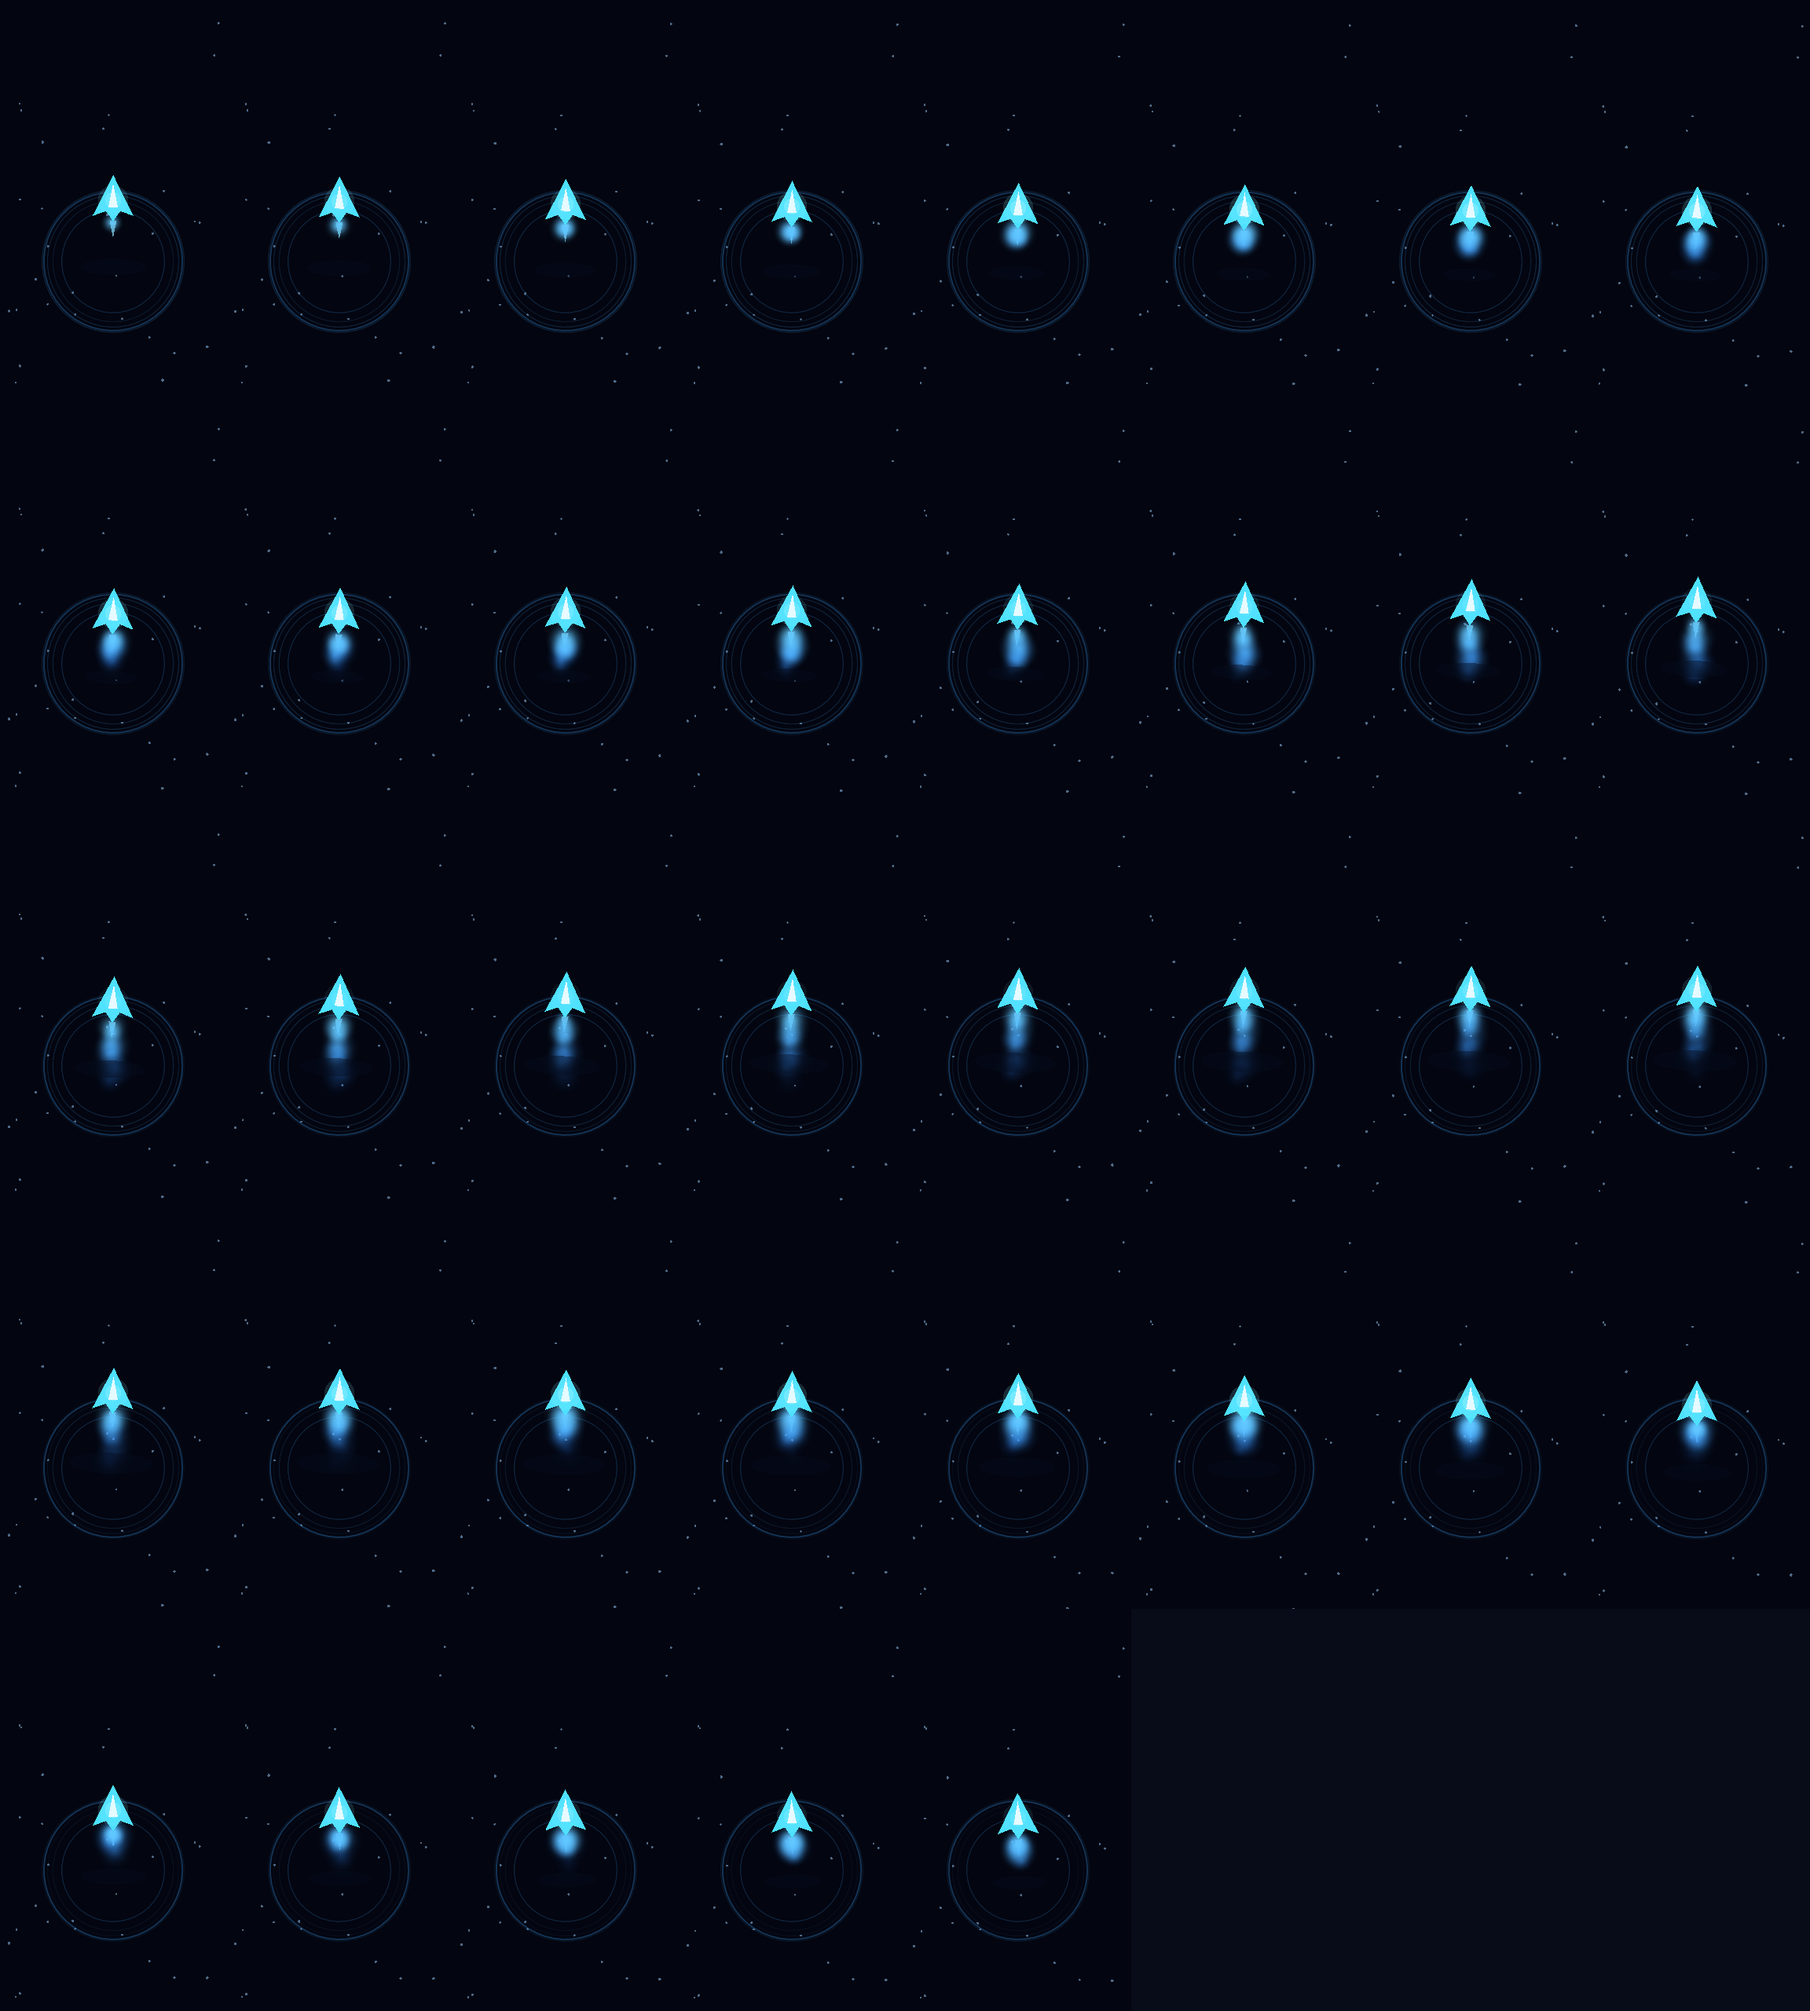
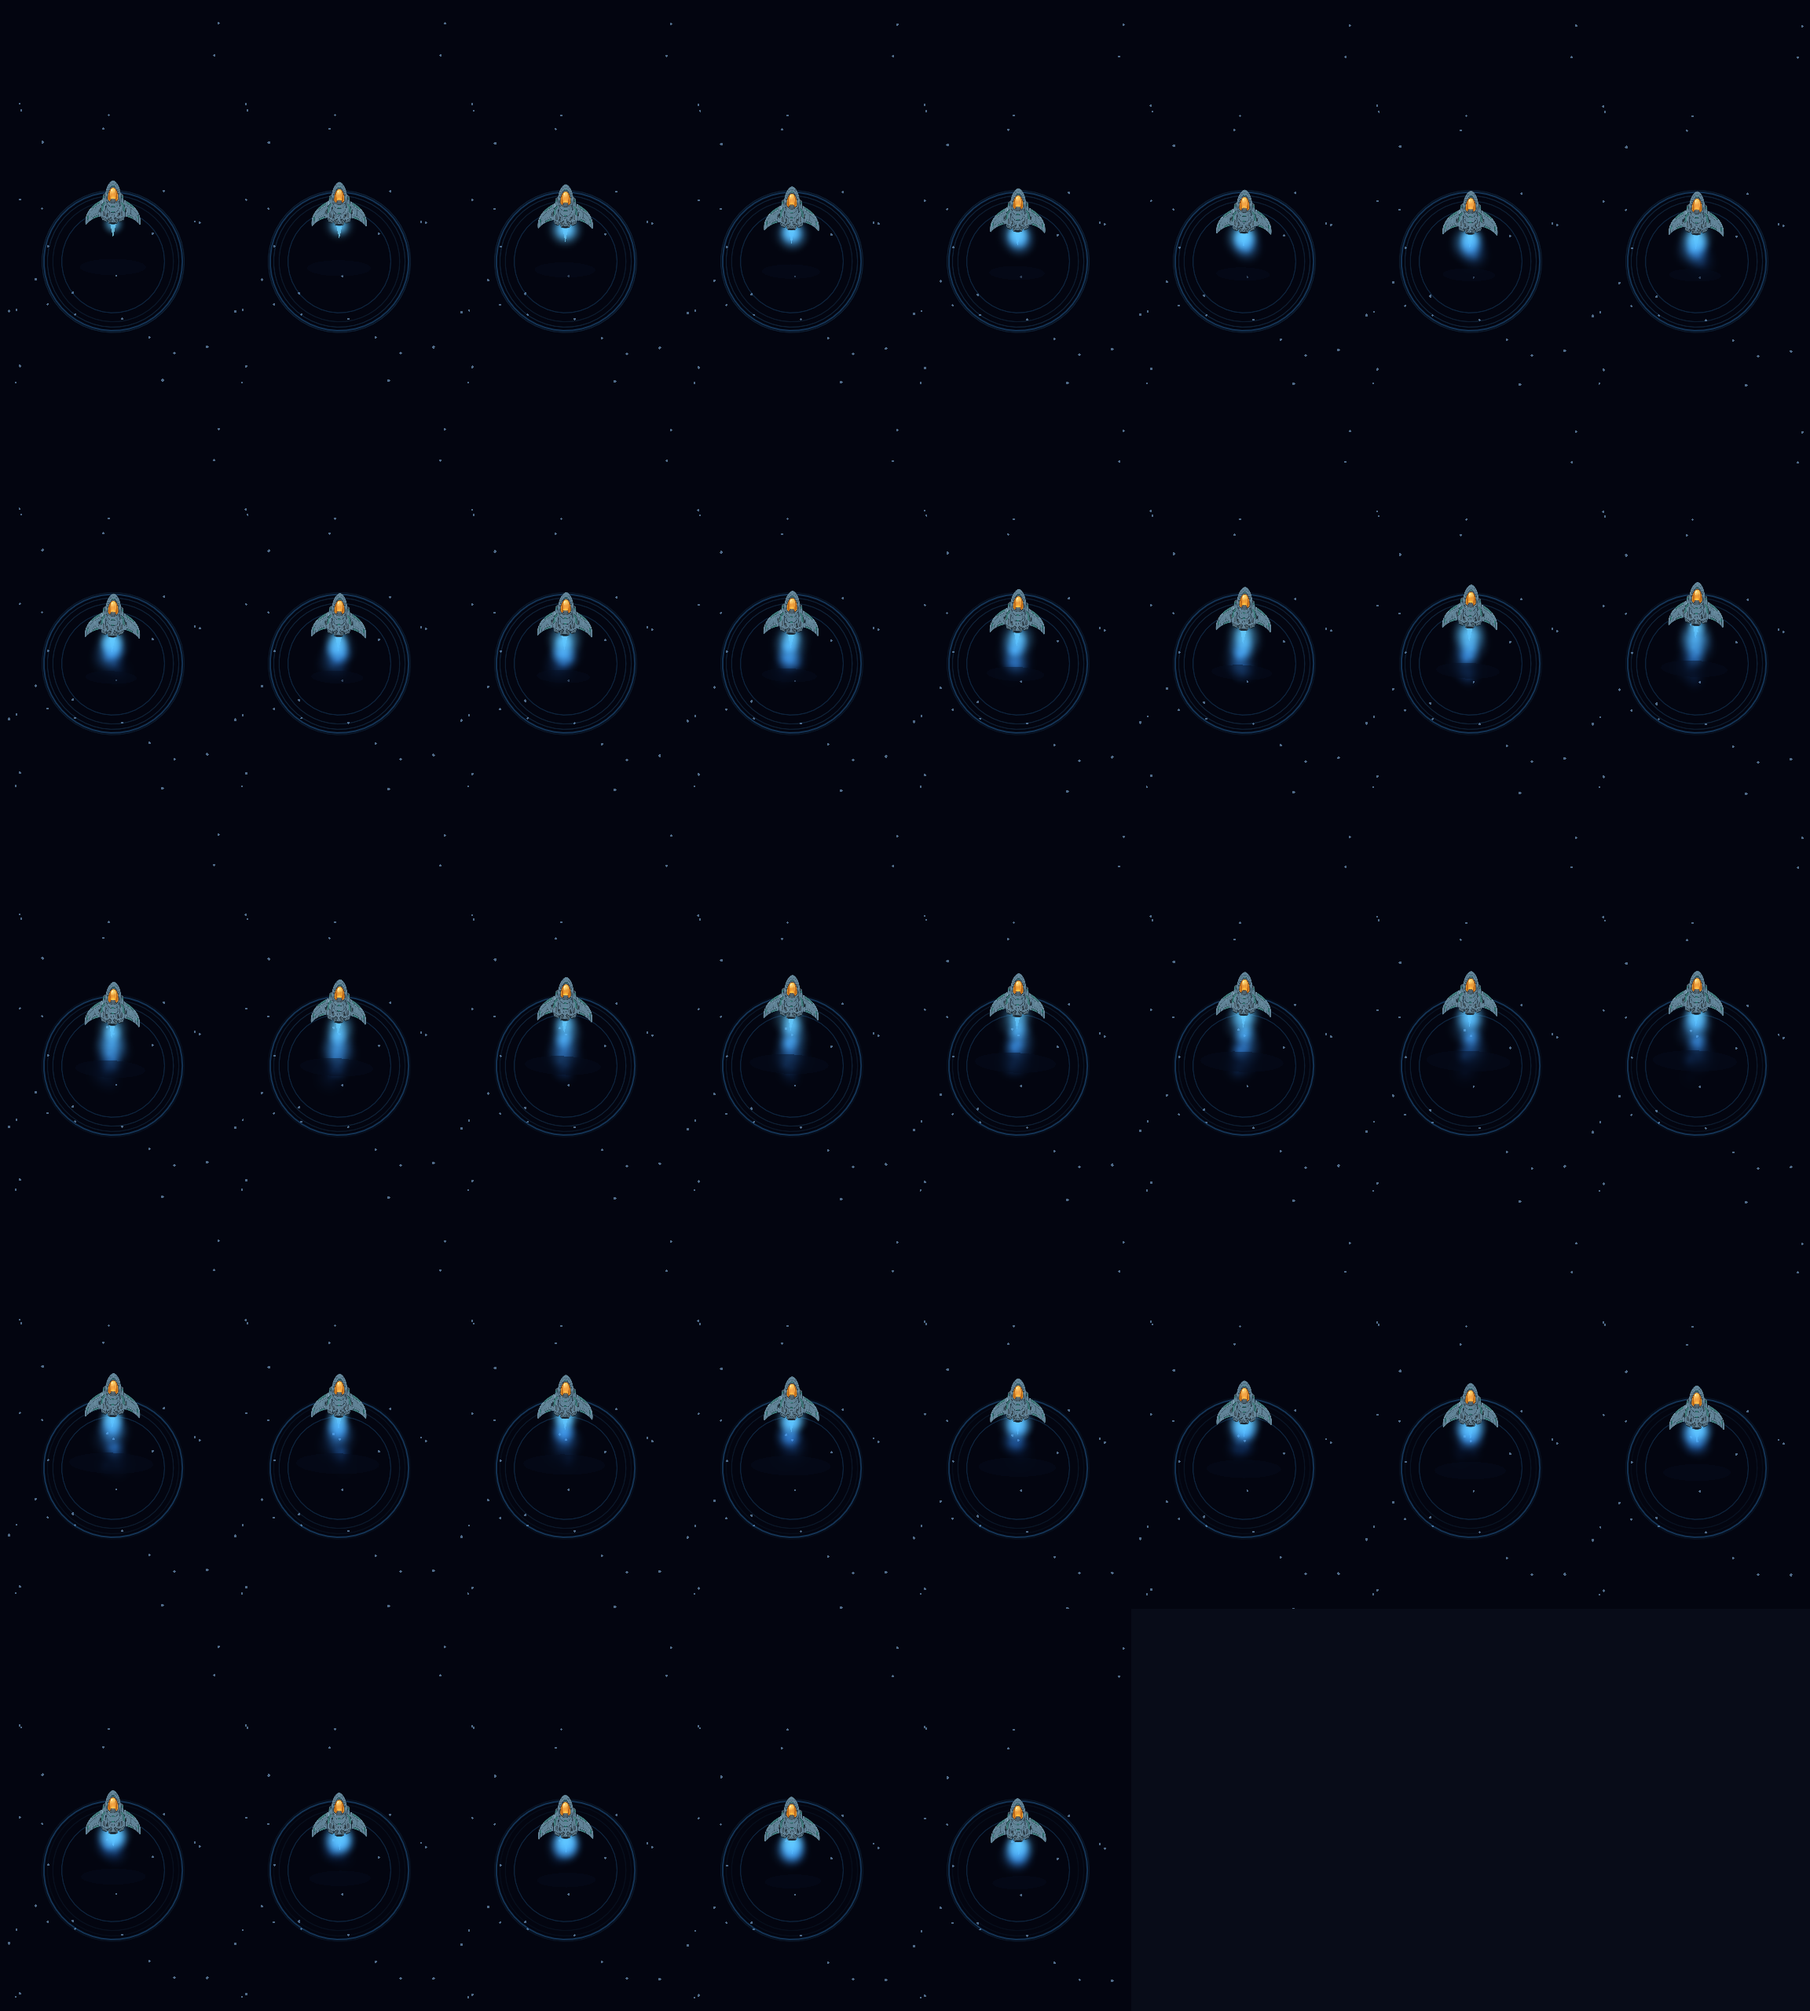
chore(motion): refresh ANIM-A frame evidence [skip ci]

diff --git a/motion/A/README.md b/motion/A/README.md
@@ -6,7 +6,7 @@ Each GIF is the acceptance clip; the `-sheet.png` file is the same frames laid o
 in order, so the motion can be read without playing the GIF.
 
 - Variant: ANIM-A - layered animation (ship body + glow layer, boss body/gun-l/gun-r/core, guns track the ship)
-- Art source: placeholder (no art package delivered yet, so these frames show the fallback art)
+- Art source: package
 - Capture rate: 12 fps
 - Frame width: 288px
 
